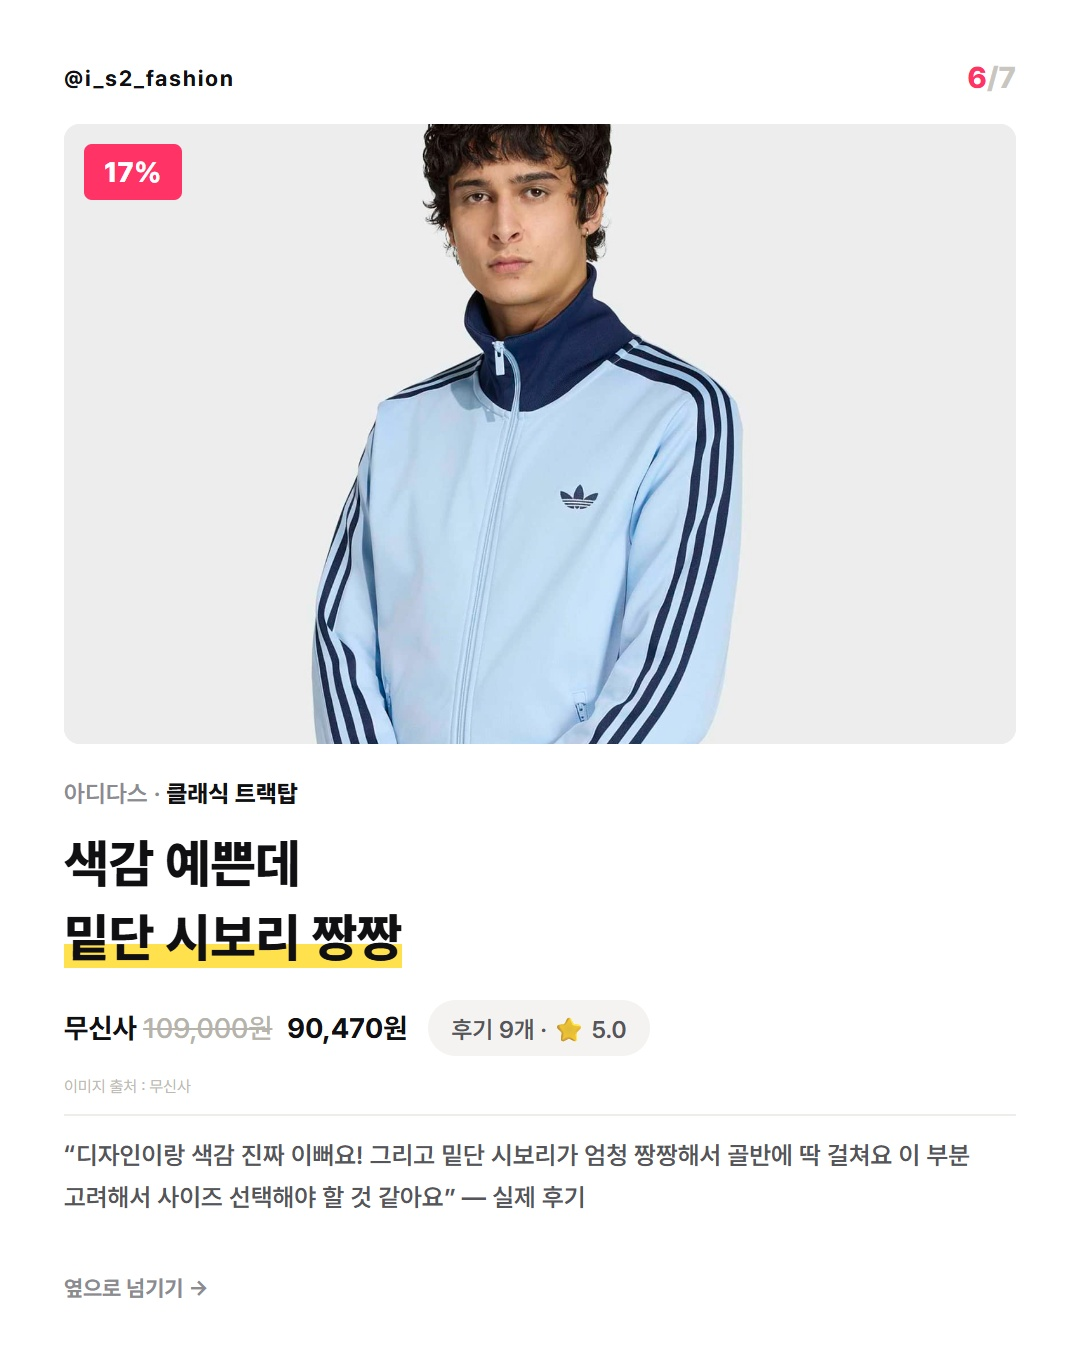
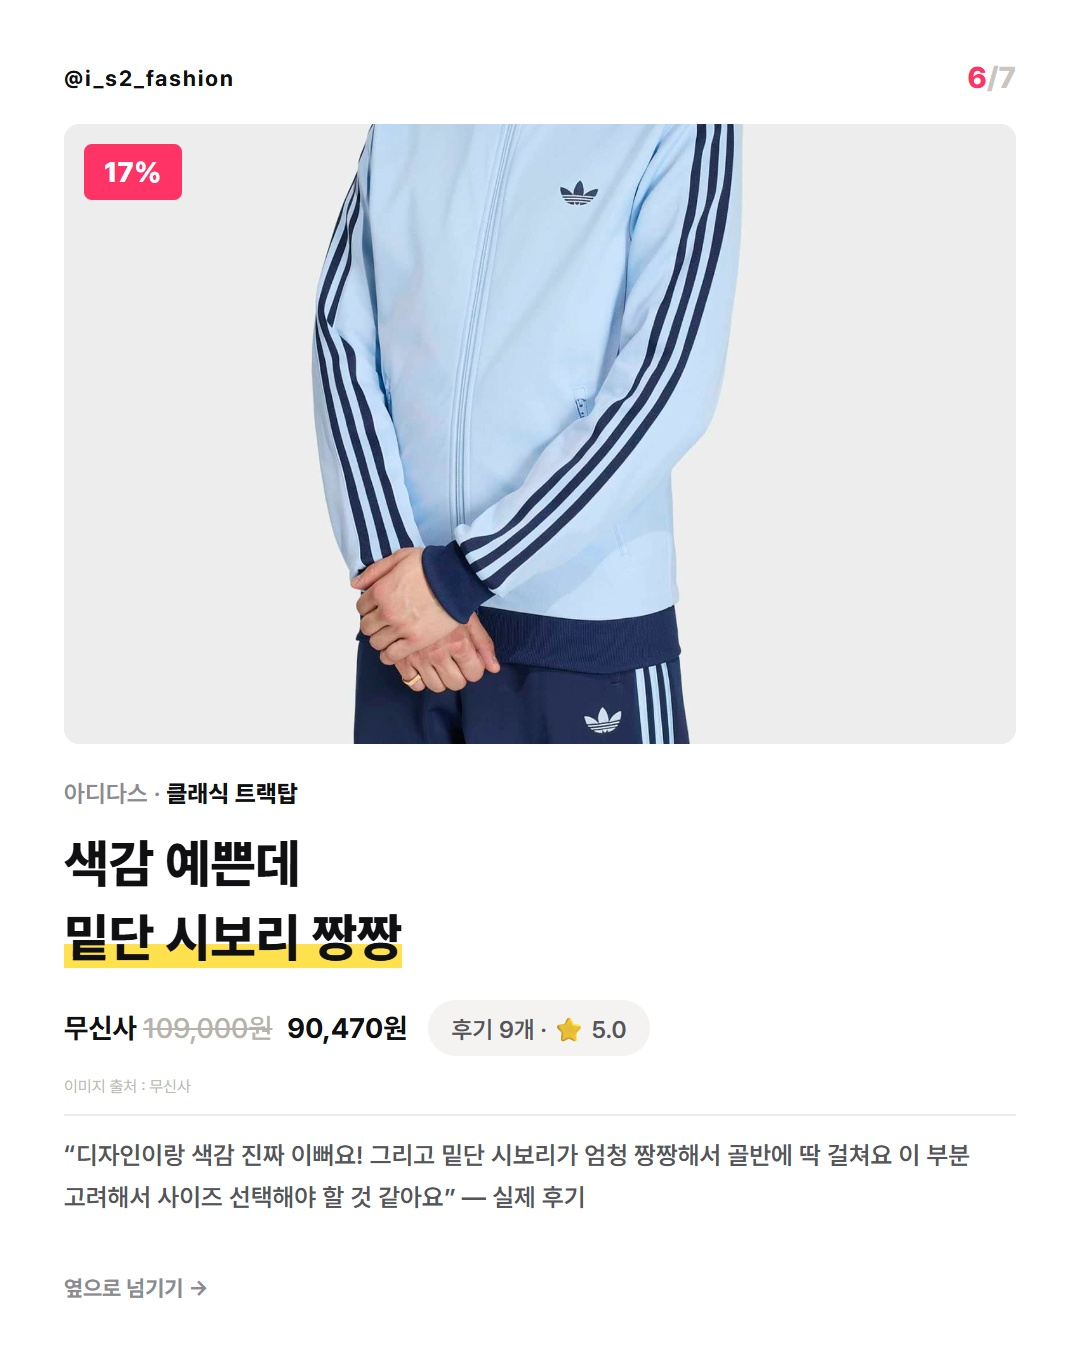
chore: auto-commit by Claude Code (2026-09-04 01:13:43)

Changed region(s): [[0.275, 0.0933, 0.7028, 0.56]]

diff --git a/card-drafts/early-autumn-outer/index.html b/card-drafts/early-autumn-outer/index.html
@@ -7,18 +7,18 @@
 .meta s{color:#b6b3ac;font-weight:500;margin-right:4px}
 .card.item .photo,.card.cover .photo{width:476px;border-radius:8px;background:#f0efec}
 .card.cover .photo{height:366px}
-.card.item .photo{height:310px}
+.card.item .photo{height:310px;box-shadow:inset 0 0 0 1px #ebe9e5}
 .card.item .photo img,.card.cover .photo img{width:100%;height:100%;object-fit:cover;object-position:var(--pos,50% 20%)}
 .cover .caption{margin-top:14px}
 </style></head><body><div class="head"><h1>초가을 아우터 카드뉴스 · 인스타 후킹형 · @i_s2_fashion</h1><p>표지 → 러플 카디건 · 네이비 재킷 · 하프 트렌치 · 윈드브레이커 · 트랙탑 → CTA (7장)<br>C안 고정 디자인 · 상품 정보: 무신사 2026-09-04 재확인</p></div><div class="toolbar"><button onclick="exportAll()">⬇ 전체 PNG 내보내기 (7장)</button></div><div class="board" id="board"></div>
 <script src="https://cdnjs.cloudflare.com/ajax/libs/html2canvas/1.4.1/html2canvas.min.js"></script><script>
 const cards=[
 {kind:'cover',img:'assets/cover-calvin-big.jpg',lab:'표지',kicker:'EARLY AUTUMN OUTER',title:'반팔 위에 바로,<br><em>초가을 아우터</em>',sub:'두껍지 않게 분위기만 먼저 바꾸는 다섯 벌'},
-{kind:'item',img:'assets/01-eightseconds-cardigan-crop.jpg',pos:'50% 6%',lab:'에잇세컨즈',badge:'9%',prod:'에잇세컨즈 · <b>러플 긴소매 카디건</b>',title:'진주 단추는 빡세도<br><em>디자인이 이긴다</em>',meta:'무신사 <s>69,900원</s> 63,610원',proof:'후기 3개 · ⭐ 5.0',sp:'“디자인도 맘에 들고 느낌도 좋아요 단점이라면 단추가 진주라서 좀 빡셉니다. 그래도 그런 단점을 상쇄하는 디자인이에요.” —&nbsp;실제&nbsp;후기'},
-{kind:'item',img:'assets/02-polo-big.jpg',lab:'폴로 랄프 로렌',badge:'5%',prod:'폴로 랄프 로렌 · <b>빅 재킷 네이비</b>',title:'해링턴보다<br><em>빅 재킷</em>',meta:'무신사 <s>499,000원</s> 474,050원',proof:'후기 6개 · ⭐ 4.8',sp:'“비싸서 매번 쳐다만 보던 폴로 재킷 구매했습니다. 다른 폴로의 워크 재킷류가 많았지만 해링턴 재킷보다는 빅재킷이 제일 이뻐보여서 이걸로 장만했습니다.” —&nbsp;실제&nbsp;후기'},
-{kind:'item',img:'assets/03-mixxo-big.jpg',lab:'미쏘',badge:'24%',prod:'미쏘 · <b>하프 트렌치코트</b>',title:'소매를 접으면<br><em>디테일이 보여</em>',meta:'무신사 <s>129,000원</s> 98,040원',proof:'후기 15개 · ⭐ 5.0',sp:'“봄가을에 너무너무 잘 입을거 같아요! 소매 안감 디테일도 너무 귀엽구 .. 색도 맘에들어요🫰🏻🤍 사이즈 s인데도 겁나 커요,, 매장에서 입어보고 온라인주문 추천합니댜 ㅎㅎ” —&nbsp;실제&nbsp;후기'},
+{kind:'item',img:'assets/01-eightseconds-cardigan-crop.jpg',pos:'50% 6%',lab:'에잇세컨즈',badge:'9%',prod:'에잇세컨즈 · <b>러플 긴소매 카디건</b>',title:'진주 단추는 뻑뻑해도<br><em>디자인이 이긴다</em>',meta:'무신사 <s>69,900원</s> 63,610원',proof:'후기 3개 · ⭐ 5.0',sp:'“디자인도 맘에 들고 느낌도 좋아요 단점이라면 단추가 진주라서 좀 빡셉니다. 그래도 그런 단점을 상쇄하는 디자인이에요.” —&nbsp;실제&nbsp;후기'},
+{kind:'item',img:'assets/02-polo-big.jpg',pos:'50% 50%',lab:'폴로 랄프 로렌',badge:'5%',prod:'폴로 랄프 로렌 · <b>빅 재킷 네이비</b>',title:'해링턴보다<br><em>빅 재킷</em>',meta:'무신사 <s>499,000원</s> 474,050원',proof:'후기 6개 · ⭐ 4.8',sp:'“비싸서 매번 쳐다만 보던 폴로 재킷 구매했습니다. 다른 폴로의 워크 재킷류가 많았지만 해링턴 재킷보다는 빅재킷이 제일 이뻐보여서 이걸로 장만했습니다.” —&nbsp;실제&nbsp;후기'},
+{kind:'item',img:'assets/03-mixxo-cuff.jpg',pos:'50% 30%',lab:'미쏘',badge:'24%',prod:'미쏘 · <b>하프 트렌치코트</b>',title:'소매를 접으면<br><em>디테일이 보여</em>',meta:'무신사 <s>129,000원</s> 98,040원',proof:'후기 15개 · ⭐ 5.0',sp:'“봄가을에 너무너무 잘 입을거 같아요! 소매 안감 디테일도 너무 귀엽구 .. 색도 맘에들어요🫰🏻🤍 사이즈 s인데도 겁나 커요,, 매장에서 입어보고 온라인주문 추천합니댜 ㅎㅎ” —&nbsp;실제&nbsp;후기'},
 {kind:'item',img:'assets/04-calvin-big.jpg',pos:'50% 42%',lab:'캘빈클라인 진',badge:'40%',prod:'캘빈클라인 진 · <b>콘트라스트 스티치 윈드브레이커</b>',title:'가볍게 걸치고<br><em>뒤는 확실하게</em>',meta:'무신사 <s>219,000원</s> 131,400원',proof:'후기 98개 · ⭐ 4.9',sp:'“뒤에 백로고가 너무 예뻐요. 간절기에 들고 다니고 걸치기 좋은 두께감입니다. 가벼워요” —&nbsp;실제&nbsp;후기'},
-{kind:'item',img:'assets/05-adidas-big.jpg',lab:'아디다스',badge:'17%',prod:'아디다스 · <b>클래식 트랙탑</b>',title:'색감 예쁜데<br><em>밑단 시보리 짱짱</em>',meta:'무신사 <s>109,000원</s> 90,470원',proof:'후기 9개 · ⭐ 5.0',sp:'“디자인이랑 색감 진짜 이뻐요! 그리고 밑단 시보리가 엄청 짱짱해서 골반에 딱 걸쳐요 이 부분 고려해서 사이즈 선택해야 할 것 같아요” —&nbsp;실제&nbsp;후기'},
+{kind:'item',img:'assets/05-adidas-big.jpg',pos:'50% 78%',lab:'아디다스',badge:'17%',prod:'아디다스 · <b>클래식 트랙탑</b>',title:'색감 예쁜데<br><em>밑단 시보리 짱짱</em>',meta:'무신사 <s>109,000원</s> 90,470원',proof:'후기 9개 · ⭐ 5.0',sp:'“디자인이랑 색감 진짜 이뻐요! 그리고 밑단 시보리가 엄청 짱짱해서 골반에 딱 걸쳐요 이 부분 고려해서 사이즈 선택해야 할 것 같아요” —&nbsp;실제&nbsp;후기'},
 {kind:'cta',img:'../../CARD/zzal/20260830.jpg',lab:'CTA',title:'다 사고 싶지만<br><em>통장은 하나</em>',sub:'이번 가을 가장 먼저 살 한 벌부터<br>골라서 저장해두세요'}];
 function html(c,i){let photo=c.kind==='cta'?`<div class="photo"><img src="${c.img}" alt="" onload="sizePhoto(this)"></div>`:`<div class="photo"><img src="${c.img}" alt="" style="--pos:${c.pos||'50% 20%'}">${c.badge?`<span class="badge">${c.badge}</span>`:''}</div>`,body=c.kind==='cover'?`<div class="caption"><div class="kicker">${c.kicker}</div><h2 class="title">${c.title}</h2><p class="sub">${c.sub}</p></div>`:c.kind==='cta'?`<div class="caption"><h2 class="title">${c.title}</h2><p class="sub">${c.sub}</p></div>`:`<div class="caption"><div class="prodline">${c.prod}</div><h2 class="title">${c.title}</h2><div class="metarow"><span class="meta">${c.meta}</span><span class="proof">${c.proof}</span></div><div class="credit">이미지 출처 : 무신사</div><div class="selling">${c.sp}</div></div>`;return `<div class="card ${c.kind}" id="card${i}"><div class="toprow"><span class="handle">@i_s2_fashion</span><span class="num">${i+1}<i>/7</i></span></div>${photo}${body}<div class="foot">${i<6?'옆으로 넘기기 →':'&nbsp;'}</div></div>`}
 function sizePhoto(img){const wrap=img.parentElement,isCta=wrap.closest('.cta'),maxW=isCta?400:330,maxH=isCta?380:330,ratio=img.naturalWidth/img.naturalHeight;let w=maxW,h=Math.round(w/ratio);if(h>maxH){h=maxH;w=Math.round(h*ratio)}wrap.style.width=w+'px';wrap.style.height=h+'px'}

diff --git a/KEYWORD-POLICY.md b/KEYWORD-POLICY.md
@@ -368,6 +368,7 @@
 
 | 지정일 | 키워드 |
 |---|---|
+| 2026-09-04 | **초가을 데님** (사용자 승인 — "데님 바지". 폴더 `20260904 초가을 데님` 예정). 바지 축 세 번째(08-10 여름 긴바지 778·08-19 늦여름 슬랙스 114 이후). 「늦여름 청바지」 보류 사유(여름엔 무겁고 안 마름)가 계절 전환으로 해소돼 복귀. 축은 **핏 변주**(커브드·와이드·부츠컷·스트레이트·벌룬/배기) — 색·워싱으로 가르지 않는다. 근거: 09-04 무신사 여성 일간 바지 랭킹 상위 400 중 데님 108건, 로스터 바지 브랜드 3곳(핀카·미치코런던·파르티멘토 우먼) 보유. 캡션 연결 후킹: 여름 긴바지 때 "청바지를 한 벌도 넣지 않았다"를 되받는다. 게시 순서: 초가을 아우터 게시 뒤 하루 이상 띄운다 |
 | 2026-08-31 | **초가을 아우터** (**게시 대기** — `20260831 초가을 아우터`, 09-04 게시 전 전수 재검증 완료·사용자 승인 대기). 아우터 축 두 번째(08-11 냉방 가디건 이후). 축은 **아우터 종류 변주**(러플 카디건·빅 재킷·하프 트렌치·윈드브레이커·트랙탑). 5종 전부 무신사. ⚠ 로스터 브랜드 0곳·대형 글로벌 계정 3곳(폴로·CK·아디다스). ⚠ 08-31 판에서 품절 상품 1건·존재하지 않는 인용 후기 1건·잘린 인용 2건이 09-04 재검증에서 잡혔다 — **게시 직전 재검증은 생략 불가** |
 | 2026-08-26 | **초가을 아가일** (게시 완료 — `20260826 초가을 아가일`, **08-27 18:05** 게시 → [permalink](https://www.instagram.com/p/DcibZZIDwhZ/). 사용자 지정 — 아가일 패턴 니트류. 패턴 축 최초·신규 브랜드 5곳 발굴 회차). 니트 축 최초. 축은 **품목 변주**(풀오버·베스트·가디건·브이넥) — 같은 패턴을 어떻게 다르게 입는지로 5종을 가른다. 29CM 아가일 니트 후기 상위: 튜드먼트 125·얀13 116·오버듀플레어 77 |
 | 2026-08-19 | **환절기 로퍼** (게시 완료 — `20260819 환절기 로퍼`, **08-26 09:50** 게시 → [permalink](https://www.instagram.com/p/Dce961Aj5z8/). ⚠ 같은 날 09:24 1차 게시는 표기 오류로 삭제 — 실적 집계에서 제외). 신발 축 두 번째(07-24 여름 슈즈=샌들 이후). 축은 **착화감** — 로퍼의 최대 불안이 '예쁜데 발이 아프다'라 5켤레를 그 기준으로 갈랐다. 5종 전부 29CM 최저가. ⚠ 로스터 브랜드가 마크모크 1곳뿐이라 실험 #5 강도는 약함 |

diff --git a/card-drafts/early-autumn-outer/result.md b/card-drafts/early-autumn-outer/result.md
@@ -32,6 +32,11 @@
    여백만 잘라낸 뒤(정면 착용컷 유지) 사용했다.
    ② 글자 간격 — 헤드라인 자간 -0.5px→0, 행간 1.32→1.42(표지 1.26→1.34), 셀링포인트·서브 행간 1.6→1.75.
 
+8. **자체 피드백 라운드 (09-05)** — ① 2번 헤드라인 "빡세도" → **"뻑뻑해도"** (후기 뜻은 유지, 계정 톤에 맞게 속어 제거).
+   ② 4번 미쏘: 헤드라인이 "소매를 접으면 디테일"인데 크롭 사진에 접은 소매가 없었다 → 접은 소매의 줄무늬 안감이 보이는 착용컷으로 교체.
+   ③ 6번 아디다스: 헤드라인이 "밑단 시보리"인데 사진은 얼굴·가슴만 보였다 → 크롭 위치를 내려 밑단 시보리가 보이게 조정.
+   ④ 3번 폴로: 무신사에 착용컷이 없어 누끼 유지(규칙 4 예외 보고). 재킷 전체가 들어오게 중앙 크롭, 흰 배경이 카드와 섞이지 않게 사진 프레임에 1px 테두리.
+
 ## 2. 게시 전 검증 (2026-09-04)
 - 무신사 상품 페이지·후기 API로 5종 가격·할인율·후기 수·평점 실측 (아래 표). 할인 검산 5건 일치
   (69,900×0.91≈63,610 / 499,000×0.95=474,050 / 129,000×0.76=98,040 / 219,000×0.60=131,400 / 109,000×0.83=90,470).
